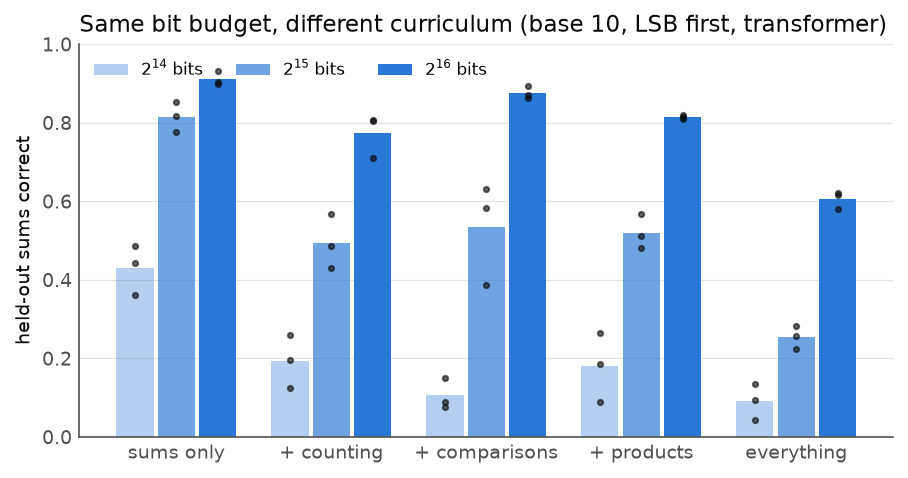
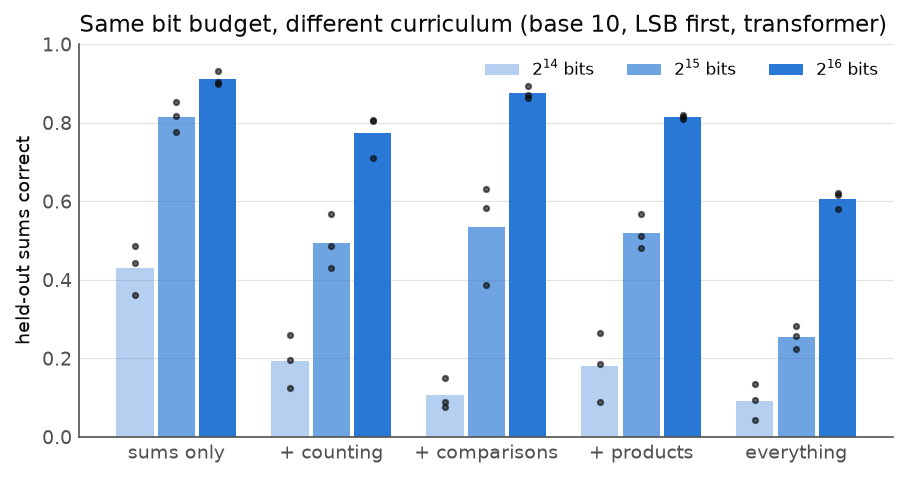
Transfer test and 4x-training raw-bit run complete; section 5 updated

diff --git a/docs/paper.html b/docs/paper.html
@@ -196,7 +196,9 @@ for receivers trained on raw bits (two seeds per point). Every condition is at t
 sums that <i>were</i> in the message. The same content as symbols gives 91%. The receivers did learn something: training loss fell to 0.35 nats per
 bit, about 1.75 nats per symbol, which captures the framing and the frequent patterns. But it is well above what the sums-only symbol receivers reach,
 so the arithmetic was never found. With every condition at the floor, the comparison between noise levels and repetition coding cannot be made.
-A follow-up with four times the training (32,000 steps, clean channel) is queued and will be added to the repository.</p>
+A follow-up with four times the training (32,000 steps, clean channel, two seeds) shows what more training buys. Training loss fell tenfold, to
+0.033–0.036 nats per bit: the receivers came close to memorising the bit stream. Yet they answer only 4–5% of held-out sums and 11–12% of sums they heard.
+More training made them better at reciting the message, not at understanding it.</p>
 <p>For message design this is the sharpest result in the report. The receivers that learn arithmetic from 2<sup>14</sup> symbol-level bits learn
 nothing from 2<sup>16</sup> raw bits. Finding the symbols is harder than the mathematics. The Arecibo message handles framing by its length,
 1,679 = 23 × 73, a product of two primes, which suggests a rectangle. Our results suggest that framing deserves more of the budget than any other design choice.</p>

diff --git a/experiments/export.py b/experiments/export.py
@@ -103,7 +103,7 @@ FINDINGS = {
     "content": "<b>Nothing teaches addition except sums.</b> Accuracy is predicted almost exactly by how many sums fit in the message. Counting, the traditional opener, gives no head start. "
                "Products, which look just like sums, cost a further 8–11 points. The other skills are learned on their own (89% of comparisons and 83% of products at 2<sup>16</sup> bits), but they do not transfer.",
     "channel": "<b>Framing is everything.</b> Given the same 2<sup>16</sup> bits as raw 5-bit codewords instead of symbols, no receiver learned to add (about 1% even on sums it heard, with no noise and no repetition), "
-               "against 91% when symbol boundaries are given. With every condition at the floor, noise and repetition coding cannot be compared. A receiver that must first find the symbols needs far more than this budget.",
+               "against 91% when symbol boundaries are given. With every condition at the floor, noise and repetition coding cannot be compared. With 4× the training the receivers nearly memorise the bit stream (training loss down tenfold) but still answer only 4–5% of unseen sums: more training buys recitation, not understanding.",
     "decipher": "<b>Five of twelve shuffled messages were read back completely</b>: base, digit values, digit order, +, × and the comparison with its three outcomes. Both base-4 receivers are among them, and in each case the recovered + makes 100% of the decoded sums true. "
                 "Digits and the separator were found exactly in every base up to 10. Receivers that understood poorly (base 3, MSB first: 27–30% of unseen sums) could not be read. "
                 "Base 16 failed in the probe, not in the mind: its receivers score 81%, but only digits 0–7 ever lead a numeral and the role step missed the other nine.",

diff --git a/README.md b/README.md
@@ -32,7 +32,7 @@ About 300 receivers, all trained from scratch on one laptop GPU.
 
 - **The best design depends on the mind.** Transformers do best with base 4 (or 10) written LSB-first; LSTMs do best with tally marks, which leave transformers on a plateau near 80%. No single design is best for both. A genetic search on transformers rediscovered base 4 LSB-first on its own. The LSTM search and the cross-architecture transfer test are still running and will be added.
 - **Counting first teaches nothing about addition.** The traditional opening of interstellar messages costs about half the budget when it is 30% of statements and gives no head start. Bits spent on a concept teach that concept, not its neighbours.
-- **Framing is the hardest part.** Receivers that learn arithmetic from 2<sup>14</sup> symbol-level bits learn nothing from 2<sup>16</sup> raw bits. So noise and repetition coding could not be compared: everything was at the floor. A run with 4× the training is queued.
+- **Framing is the hardest part.** Receivers that learn arithmetic from 2<sup>14</sup> symbol-level bits learn nothing from 2<sup>16</sup> raw bits. So noise and repetition coding could not be compared: everything was at the floor. With 4× the training the receivers nearly memorise the bit stream (loss down tenfold) yet answer only 4–5% of held-out sums.
 - **Decipherment fails in two ways.** Receivers that understood poorly (base 3 MSB-first, 27–30%) cannot be read. Base-16 receivers understood well (81%), but the probe found only the 7 digits that ever lead a numeral.
 - **Receivers memorise their message and still generalise.** With 8 symbols of context a base-10 receiver predicts the next symbol with median probability 0.99, enough to locate itself in a 28k-symbol message. Its hidden state's main axis marks whether a numeral is an operand or an answer, not its size (report Fig. 5).
 - **Seeds matter near the threshold.** Delayed, grokking-like generalisation makes two seeds of the same design differ by up to 40 points (binary LSB-first at 2<sup>16</sup>: 53% and 94%).
